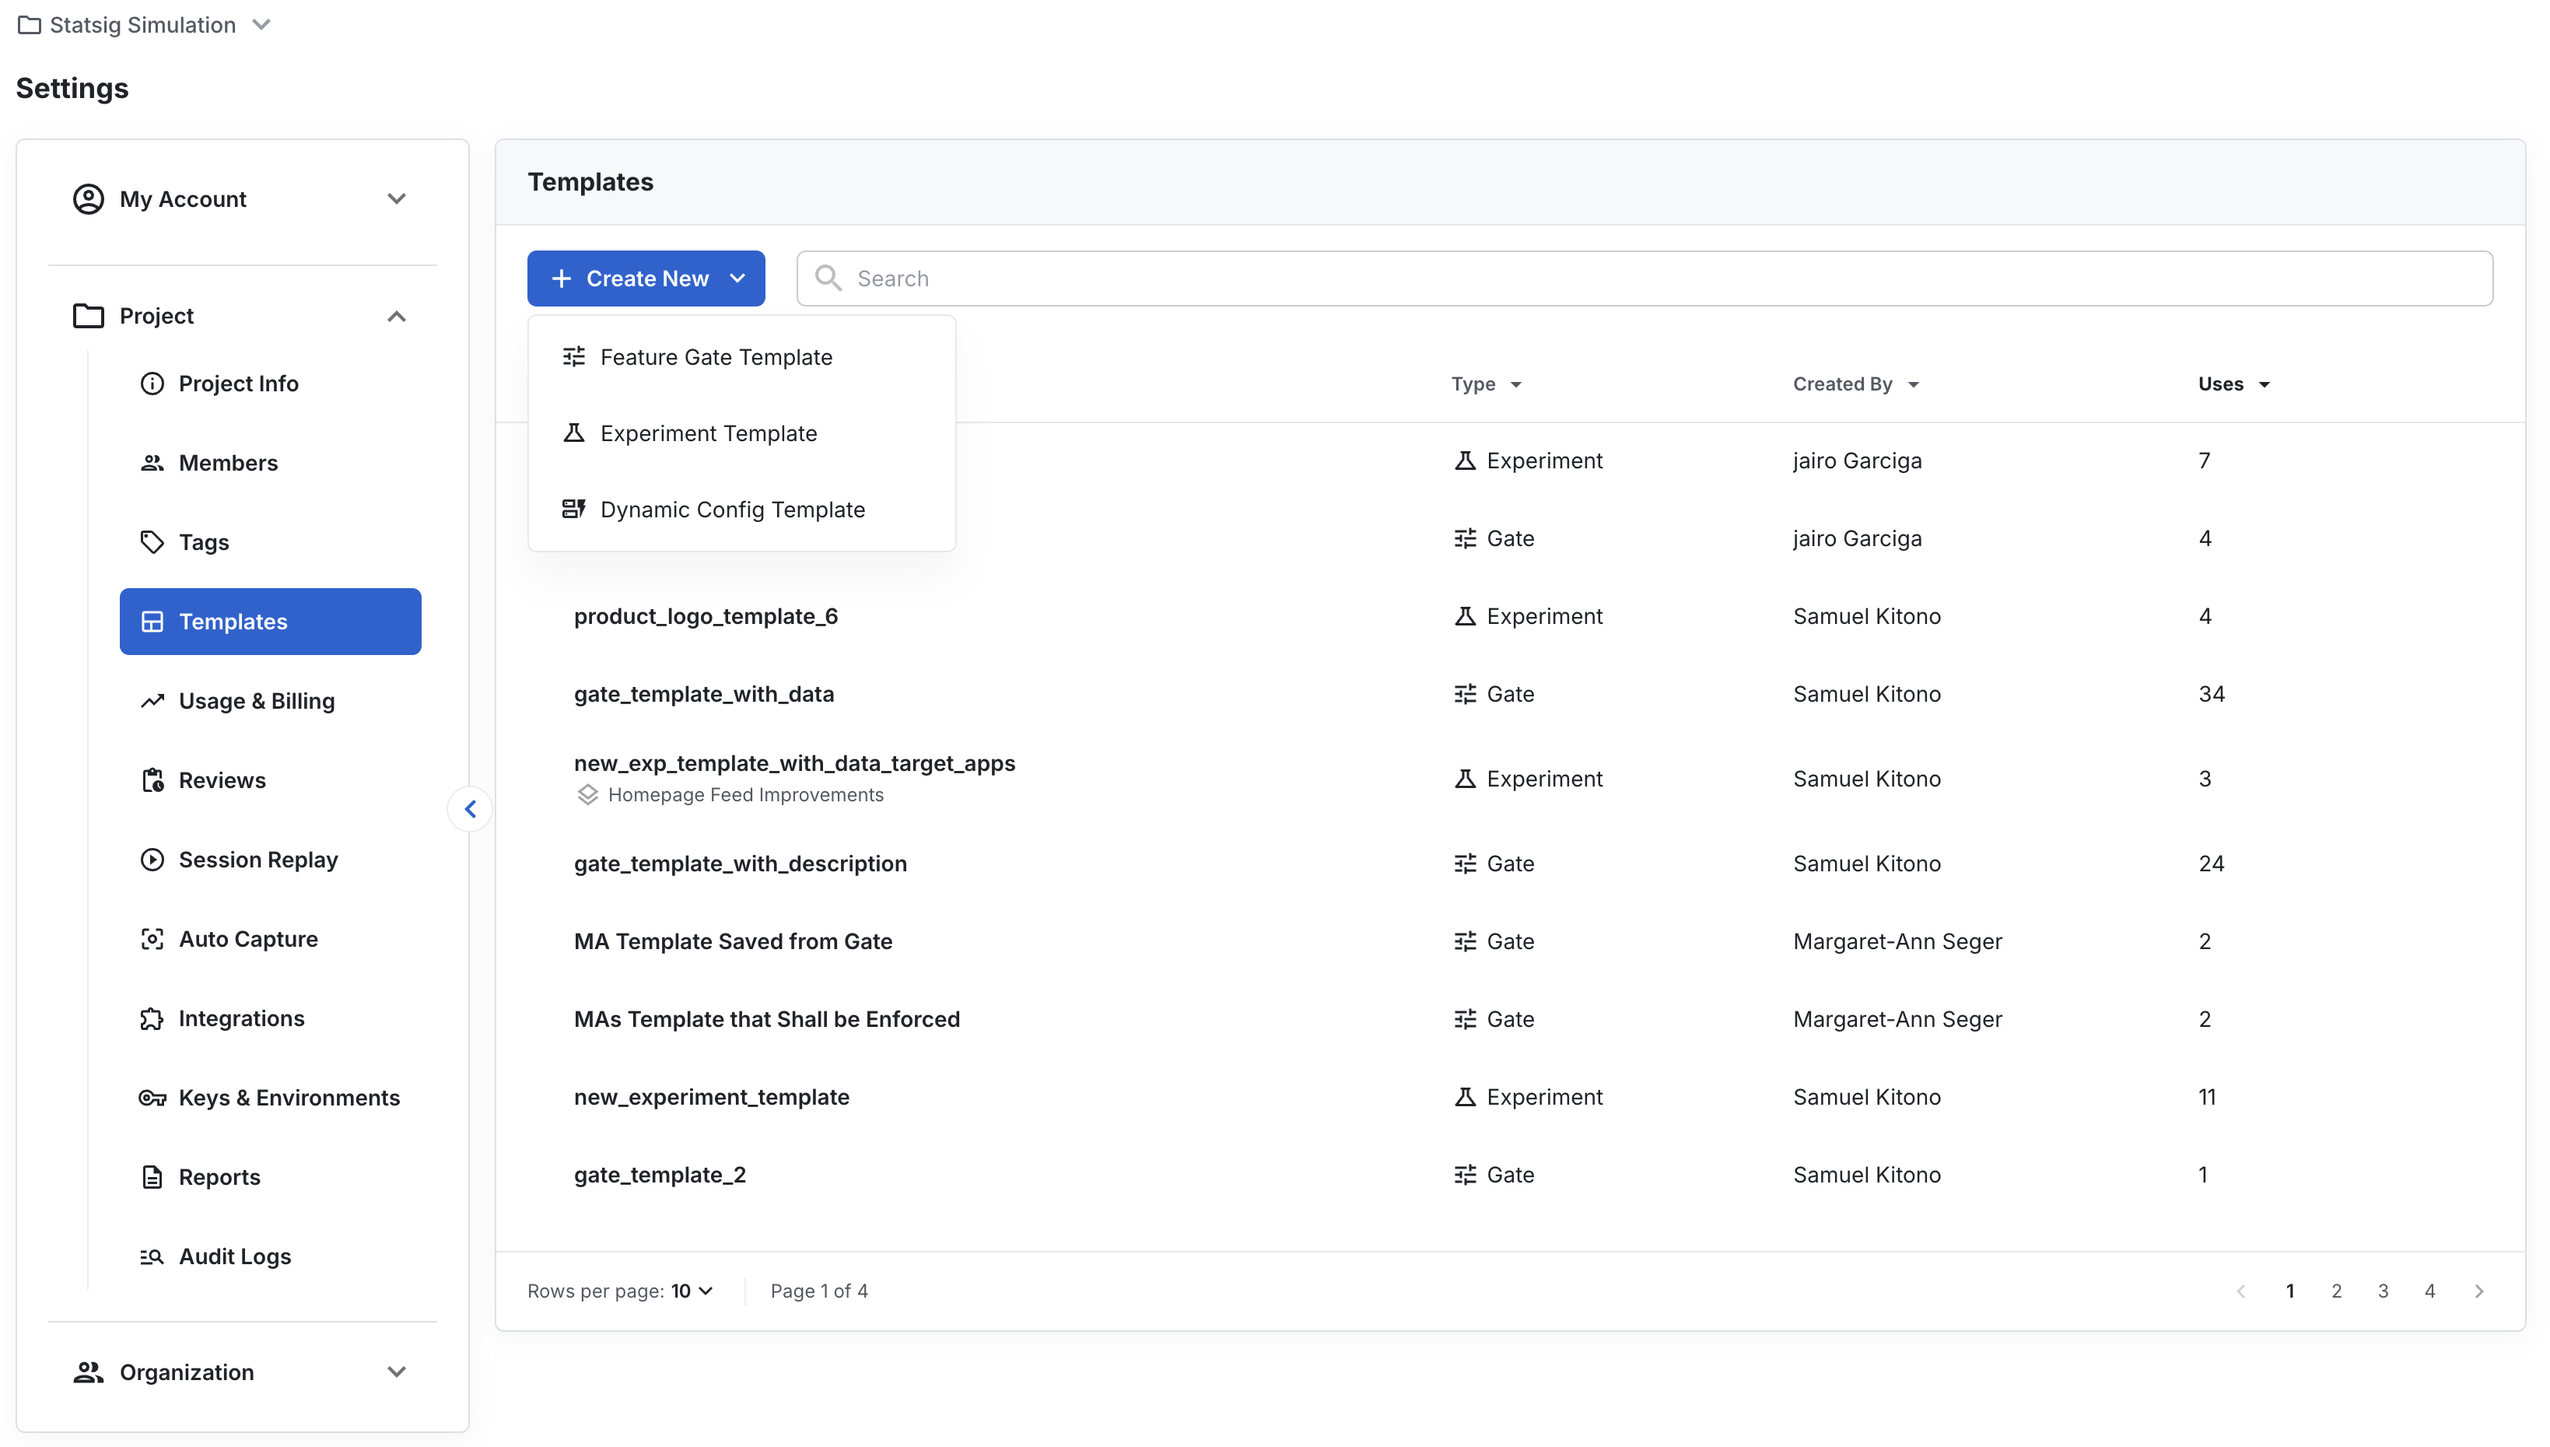
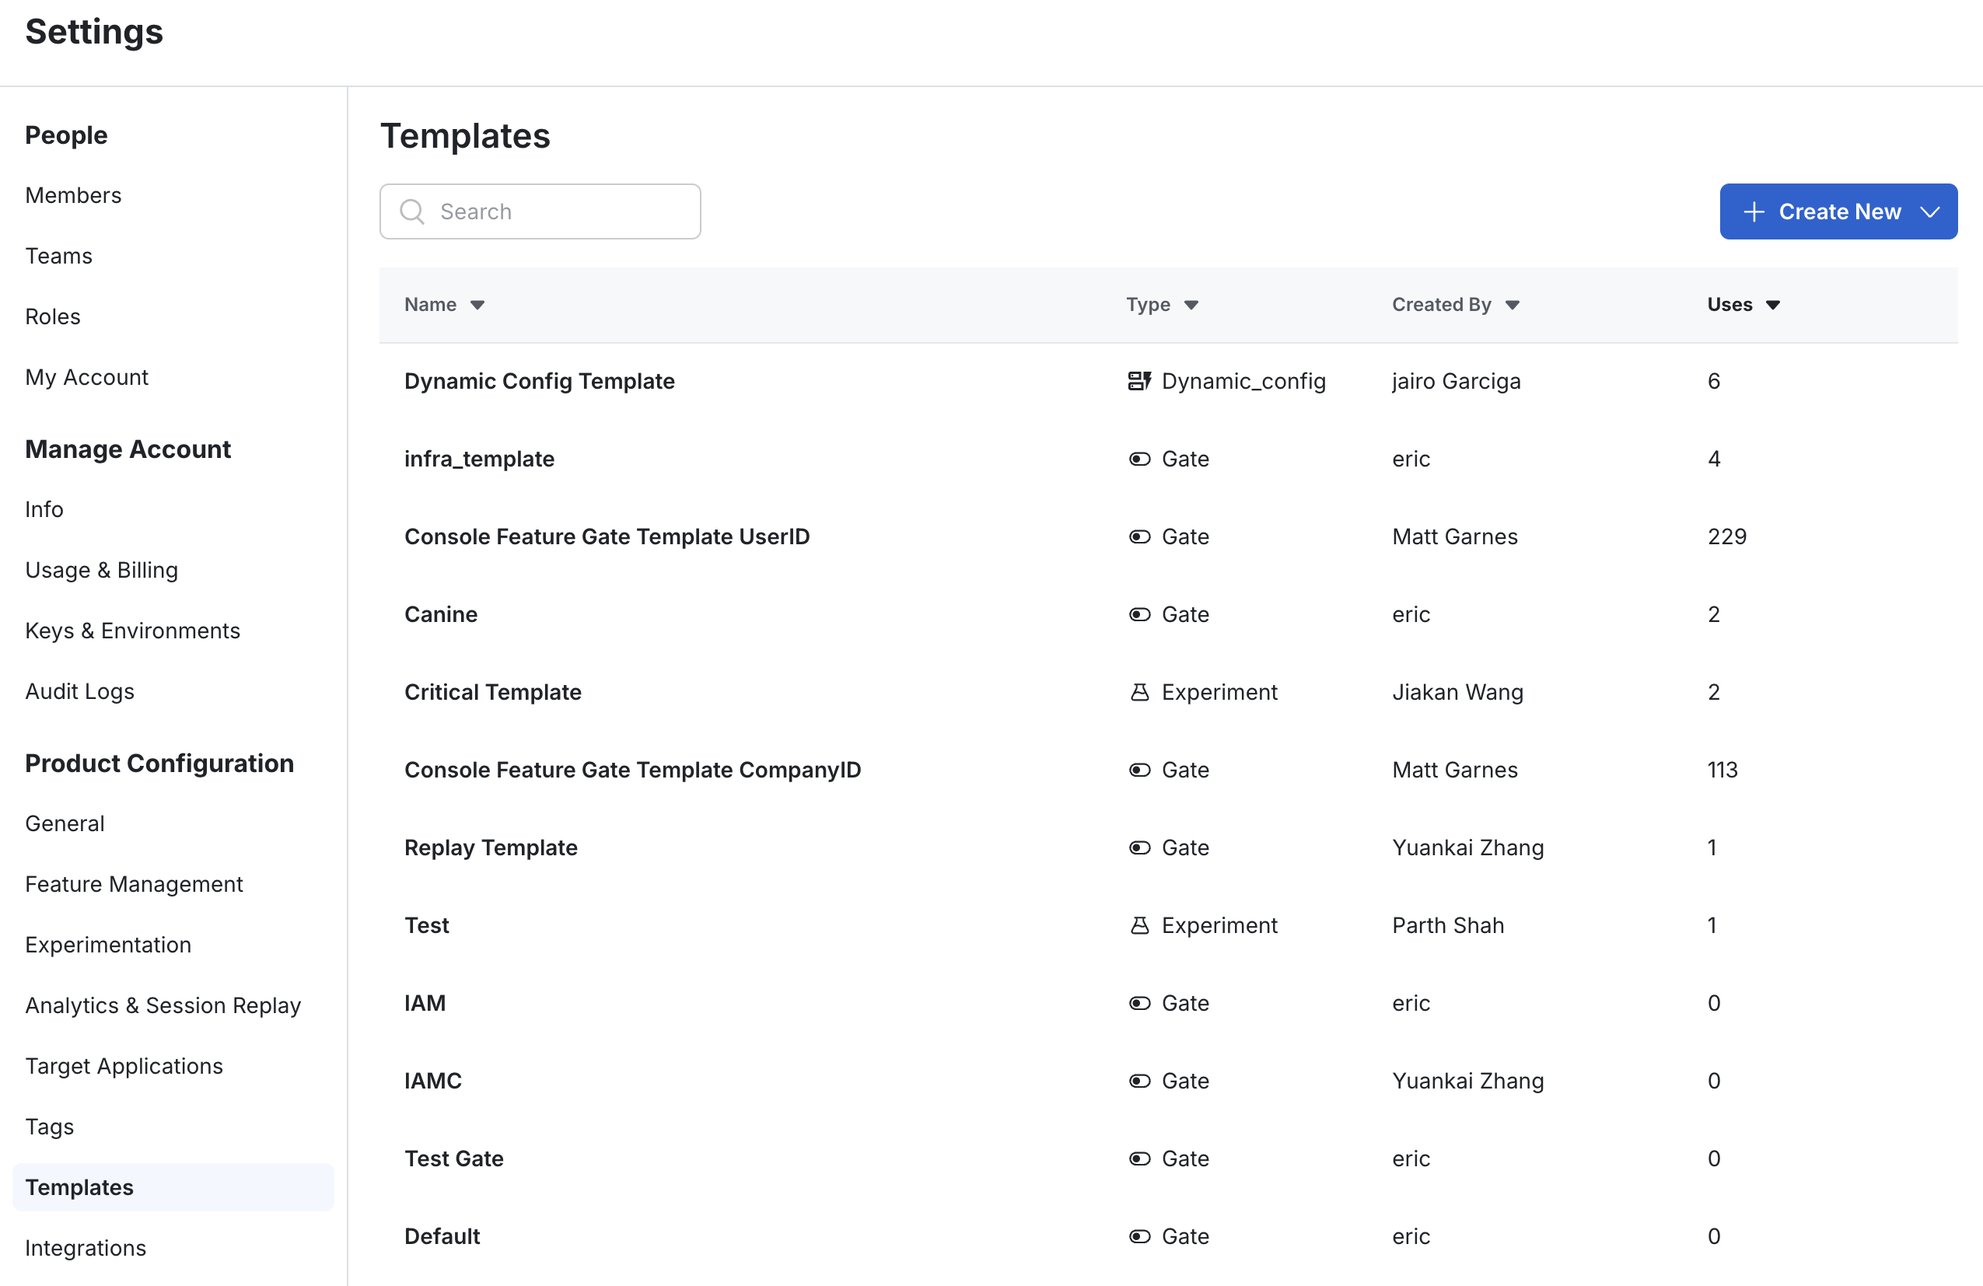
Update docs for Templates in Settings v2

diff --git a/docs/templates/templates.md b/docs/templates/templates.md
@@ -7,7 +7,7 @@ slug: /templates/templates
 
 ## Overview
 
-Templates enable you to create a blueprint for gates/ experiments to enable standardization and reusability across your Project. Templates can help enforce a rollout sequence, or make it easy for new experimenters to get up & running with your standard team settings for experimentation.
+Templates enable you to create a blueprint for gates/dynamic configs/ experiments to enable standardization and reusability across your Project. Templates can help enforce a rollout sequence, or make it easy for new experimenters to get up & running with your standard team settings for experimentation.
 
 Templates can be enforced at the Org (via [Organization Settings](/org-admin/organization_policies) and [Role-based Access Controls](/access-management/projects)) or at the [Team-level](/access-management/teams). We will detail the various levels of controls and permissions you can enable for templates below.
 
@@ -15,12 +15,12 @@ Templates can be enforced at the Org (via [Organization Settings](/org-admin/org
 
 There are two primary ways to create a new template-
 
-1. From the **Templates** tab in **Project Settings**
+1. From the **Templates** page under **Product Configuration**
 2. From a gate/ experiment you want to turn into a new template
 
 ### Creating Templates from Project Settings
 
-To create a new template from Project Settings, navigate to **Settings** -> **Project Settings** -> **Templates** and click the **+Create New** CTA, then select whether you want to create a gate, experiment, or dynamic config template.
+To create a new template from Project Settings, navigate to **Settings** -> **Project Configuration** -> **Templates** and click the **+Create New** CTA, then select whether you want to create a gate, experiment, or dynamic config template.
 
 ![Template Creation](/img/templates/create-template.png)
 
@@ -28,15 +28,15 @@ To create a new template from Project Settings, navigate to **Settings** -> **Pr
 
 If you create a new config that you think would be useful to more folks on the team as a template, you can convert an existing (or currently being created) config into a template. To do this, in the config you wish to convert to a template, tap the "..." menu and select **Save as Template**. This will prompt you to name your template and add a description before saving.
 
-![Screen Shot 2024-03-26 at 1 55 55 PM](https://github.com/statsig-io/docs/assets/101903926/4768129f-f91a-4697-aaf7-d9950cdde4d2)
+![Save as Template 1](/img/templates/templates_save_1.png)
 
-![Screen Shot 2024-03-26 at 1 56 21 PM](https://github.com/statsig-io/docs/assets/101903926/790ed73e-d014-4163-abc2-caffaefaadc3)
+![Save as Template 2](/img/templates/templates_save_2.png)
 
 ## Managing Templates
 
-Templates can be managed via the **Templates** tab within **Project Settings**. Note that permissions for who can/ can't create or modify templates are managed via Statsig's Role-based Access Controls in the **Project Settings** -> **Members** -> **Roles**. By default Org and Project Admins can modify or delete any Template.
+Templates can be managed via the **Templates** setting under **Product Configuration**. Note that permissions for who can/ can't create or modify templates are managed via Statsig's Role-based Access Controls in **People** -> **Roles**. By default Org and Project Admins can modify or delete any Template.
 
-![Screen Shot 2024-03-26 at 5 39 33 PM](https://github.com/statsig-io/docs/assets/101903926/0e77d362-a730-4939-844f-228a2982dbea)
+![Templates](/img/templates/templates_role_setting.png)
 
 ## Creating Configs from Templates
 
@@ -53,17 +53,17 @@ There are a few key layers of settings governing templates, namely at the-
 
 ### Org-level Templates Settings
 
-Within Experiment and Gate Policies (**Organization Settings** -> **Organization Info** -> **Experiment Settings**/ **Gate Settings**), you can enforce that a template is used for any new gate/ experiment creation. You can also enforce templates for dynamic config creation. Only organization admins can configure this setting. NOTE that you must create at least 1 experiment/ gate template for users to choose if you toggle on this setting, otherwise they will be blocked in creating new configs.
+Within Experiment and Gate Policies (**Settings** -> **Project Configuration** -> **Feature Management**/ **Experimentation** - **Organization Tab**), you can enforce that a template is used for any new gate/ dynamic config/ experiment creation.  Only organization admins can configure this setting. NOTE that you must create at least 1 experiment/ gate template for users to choose if you toggle on this setting, otherwise they will be blocked in creating new configs.
 
-![Screen Shot 2024-03-26 at 5 58 50 PM](https://github.com/statsig-io/docs/assets/101903926/7cbb069b-8060-4574-9fe9-e2859abdaaf4)
+![Org-level Feature Gate Templates Settings](/img/templates/gates_policy_3.png)
 
 ### Team-level Templates Settings
 
 At the team-level, you can configure which templates members of that team can choose from at the time of config creation. You can also choose whether to require use of a template or not at the team level (note that this setting only applies if templates aren't already required at the organization-level, in which case that overrides any team-level configuration).
 
-To configure team-specific templates, navigate to **Settings** -> **Project Settings** -> **Members** -> **Teams** -> choose a team -> **Settings** and then choose which templates are allowed for experiments and gates respectively.
+To configure team-specific templates, navigate to **Settings** -> **People** -> **Teams** -> choose a team -> **Settings** and then choose which templates are allowed for gates, dynamic configs, and experiments.
 
-![Screen Shot 2024-03-26 at 6 05 40 PM](https://github.com/statsig-io/docs/assets/101903926/08d38cb7-3a4d-4220-afa8-419bfedc531e)
+![Team-level Templates Settings](/img/templates/templates_teams.png)
 
 ### Notes
 
